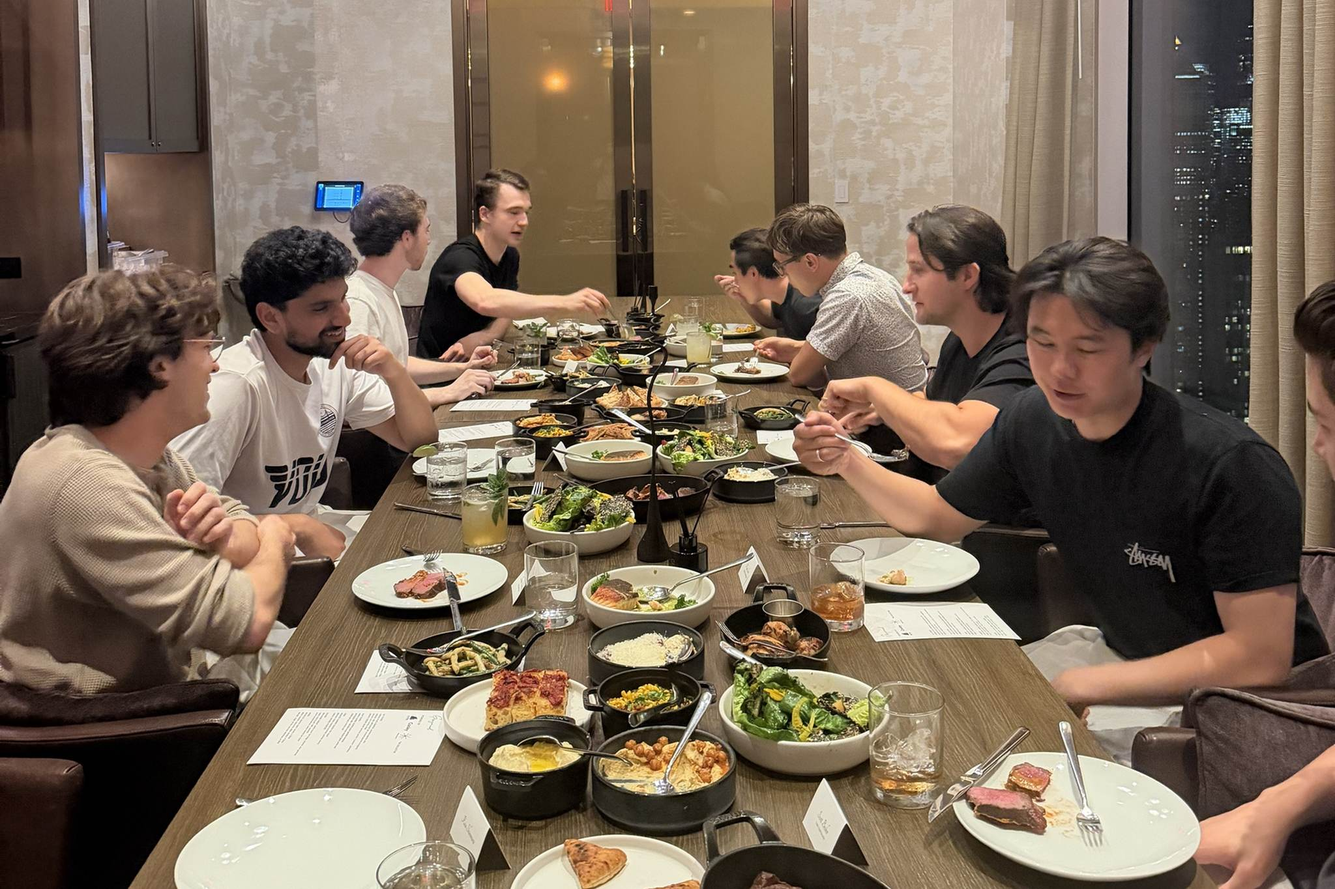
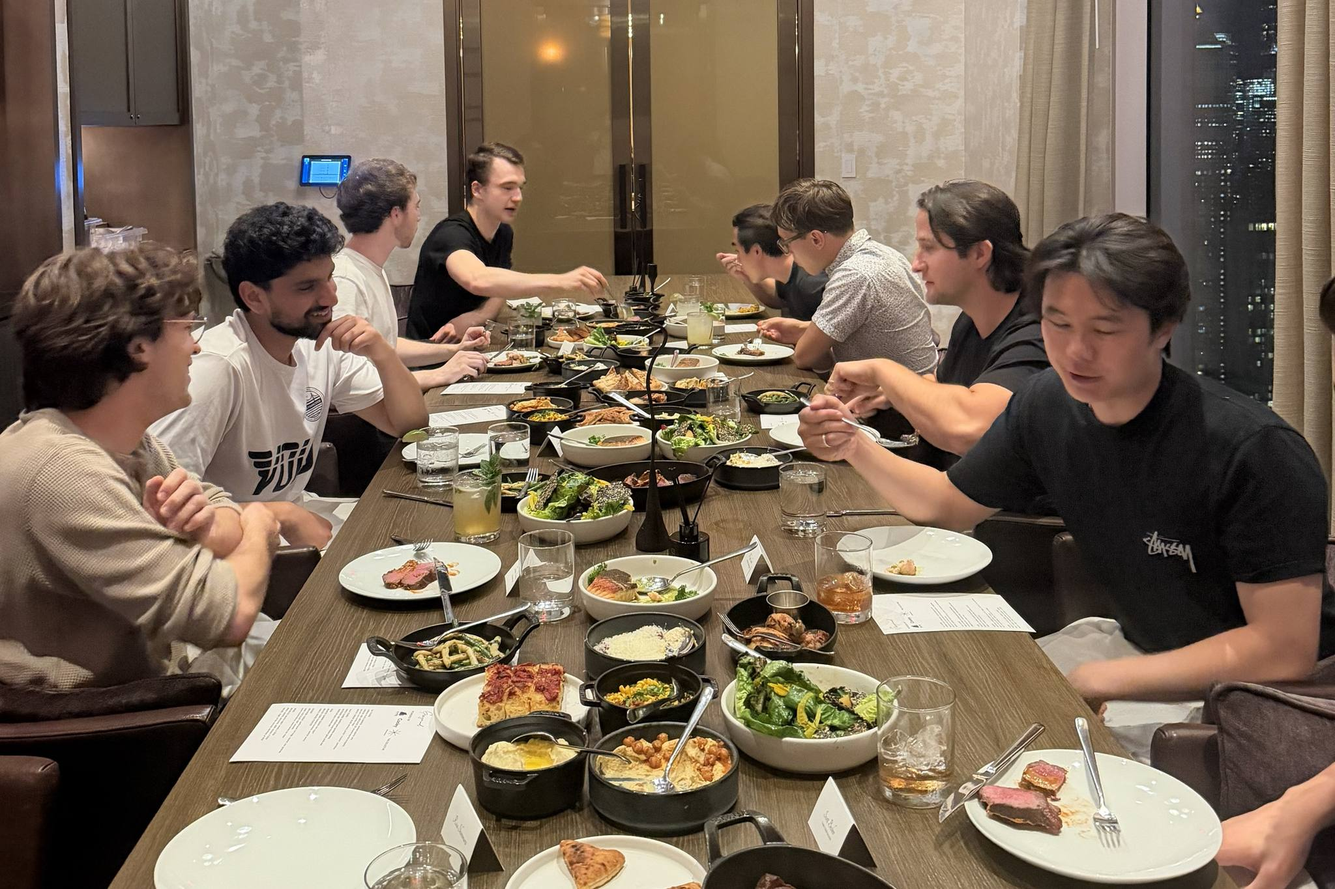
Render every dinner photo at the same size
Swaps in the new September frame at 2048x1365, and pins figure images to a
3:2 box with object-fit: cover. February was shot 16:9 and had always
rendered shorter than the rest; now all five match, and any future photo
conforms whatever shape the camera gives.

Claude-Session: https://claude.ai/code/session_011M8bNZNPxhqVyTTLm12wUe

diff --git a/dinners.html b/dinners.html
@@ -34,7 +34,7 @@
   .nominate:hover { background: #000; color: #fff; }
   .photos { max-width: 46rem; }
   figure { margin: 0 0 2.4rem; }
-  figure img { display: block; width: 100%; height: auto; }
+  figure img { display: block; width: 100%; aspect-ratio: 3 / 2; object-fit: cover; }
   figcaption { margin-top: .55rem; font-size: .875em; color: #555; }
   .guests { margin: .3rem 0 0; font-size: .875em; }
 </style>
